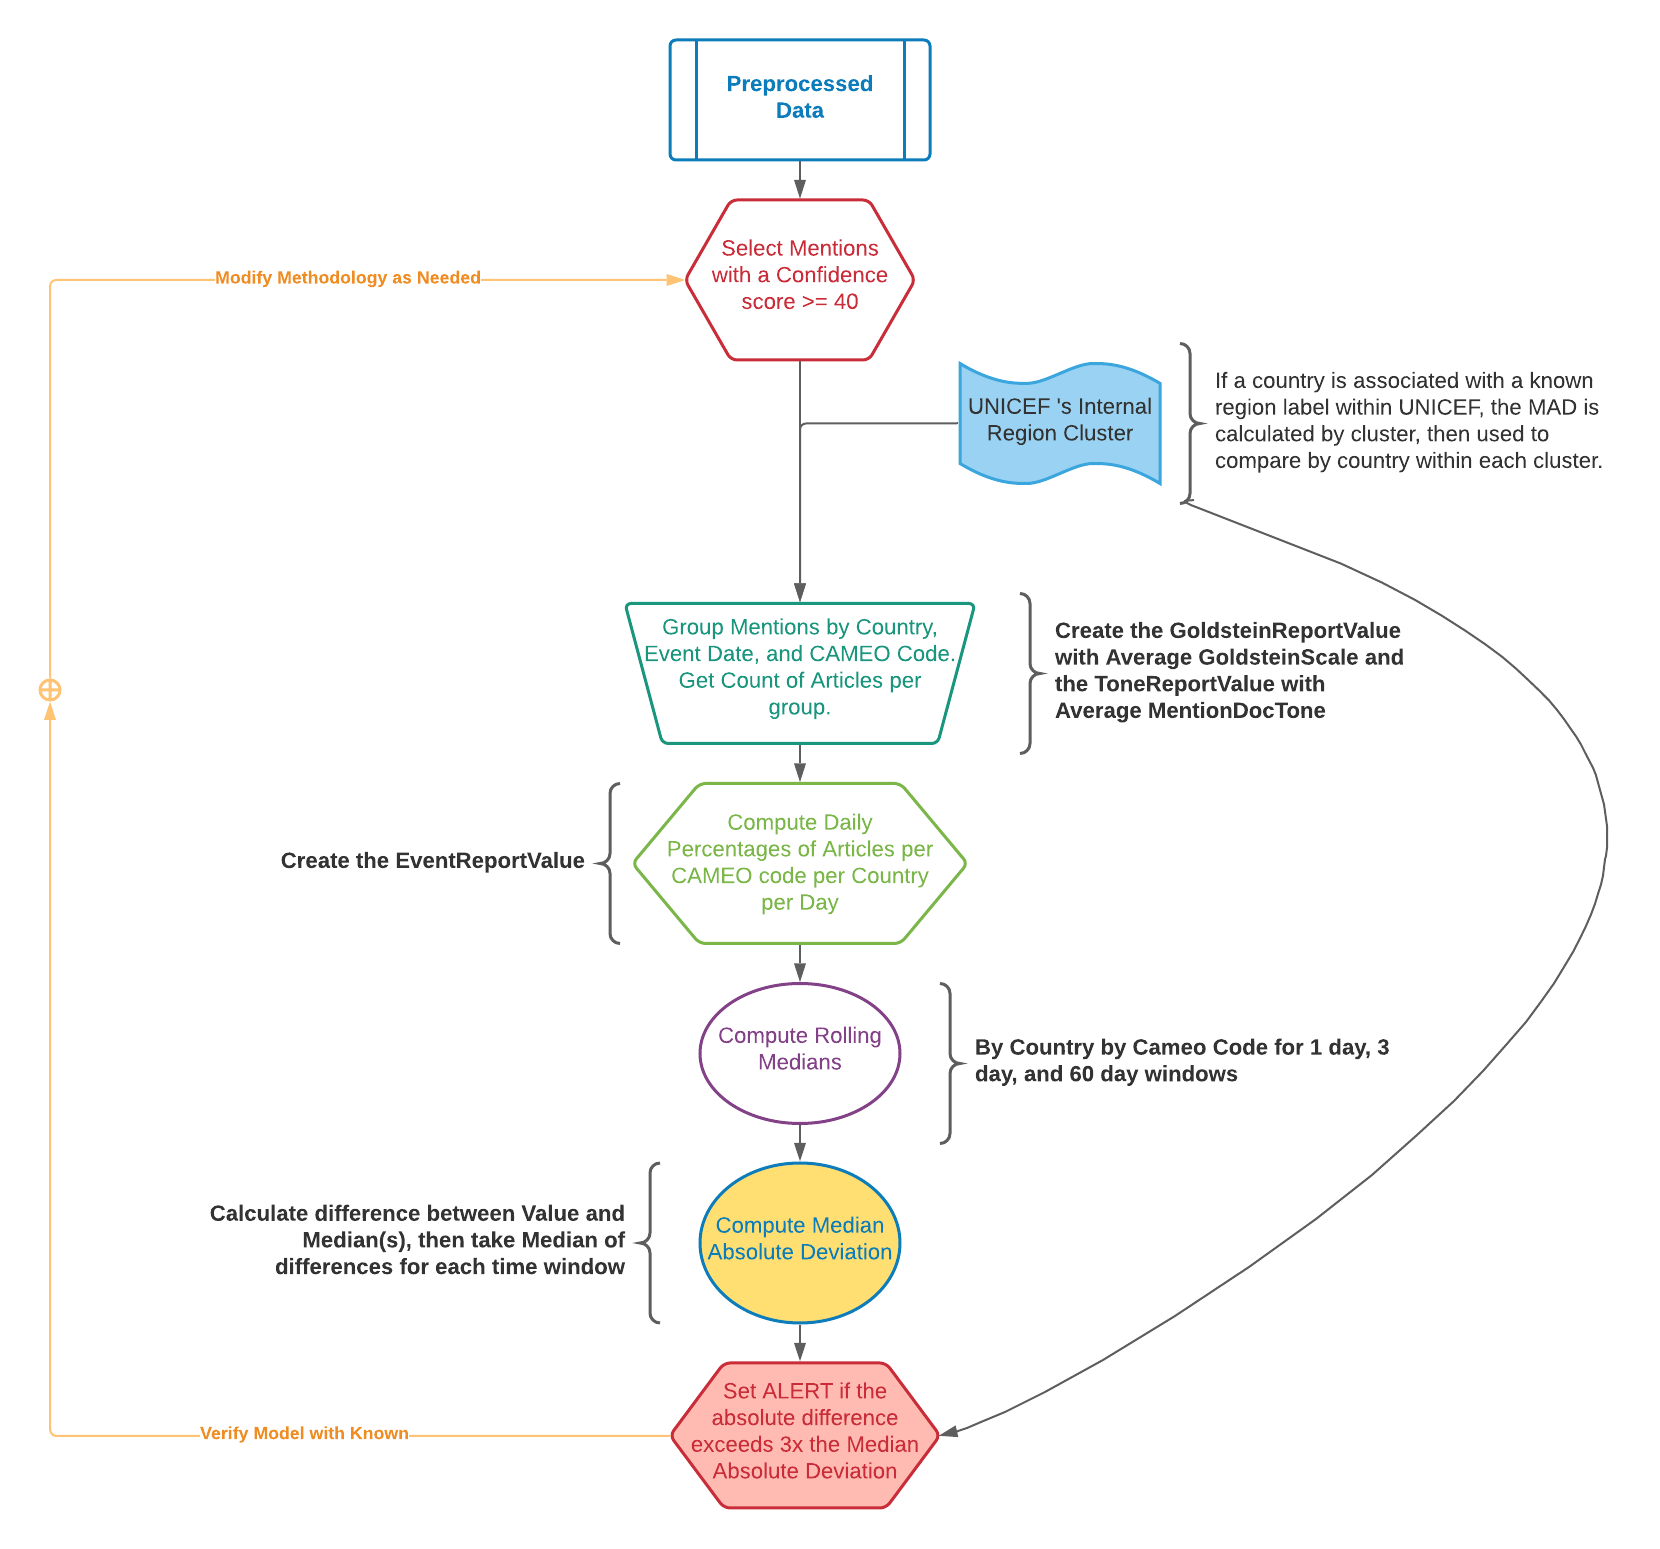
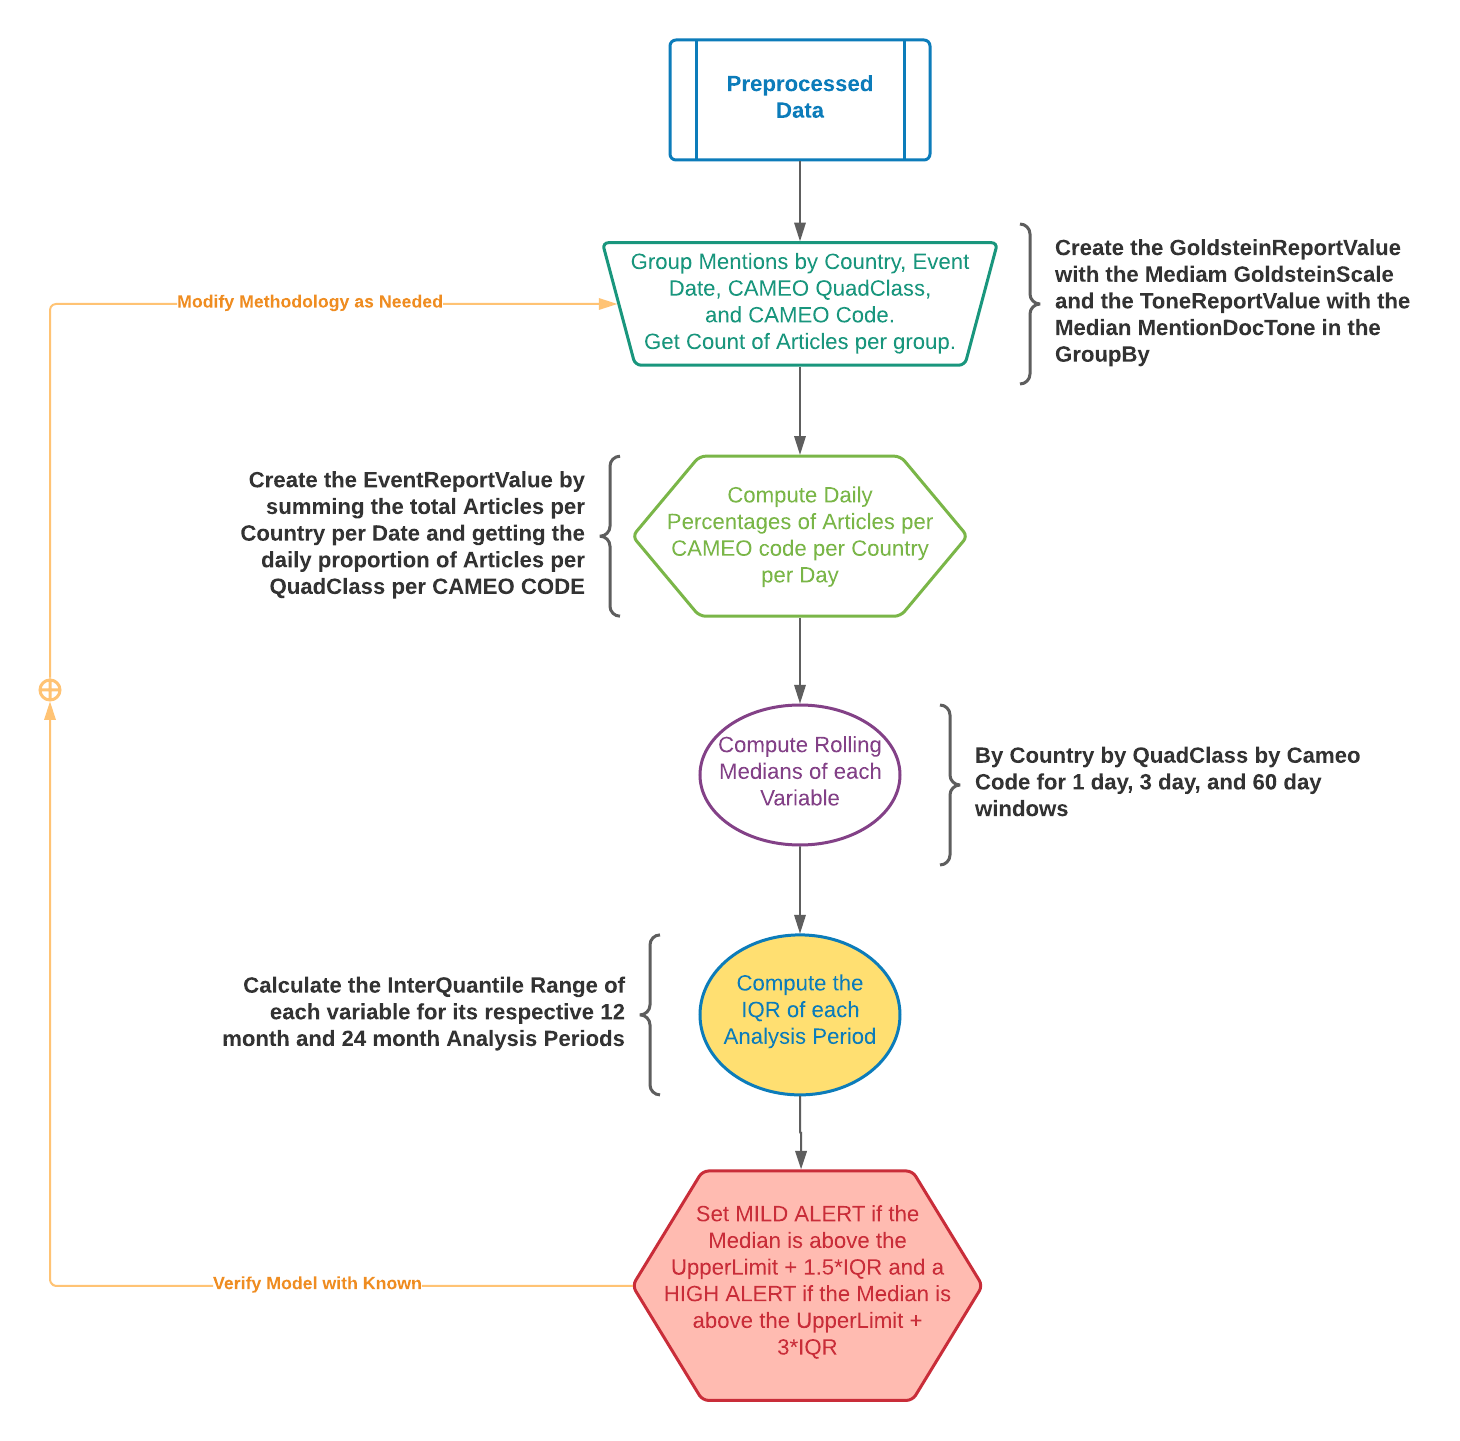
add modified project flowcharts

diff --git a/README.md b/README.md
@@ -6,11 +6,14 @@ Risk Analysis and Preparedness Section (RAPS), Office of Emergency Operations (E
 ### Premise of Task: 
 Contextual Alert and Trend System (CATS) is a proof of concept (POC) for an automated system for near real-time media monitoring via GDELT to identify trends and anomalies in the volume of online reports about pre-defined indicator events, at country level. This repository reflects the methodologies used to complete this task.
 
-### Technical Workflow
+### Technical Development Workflow
 ![CATS LUCID CHART](images/CATS_technical_plan_flowchart.png)
 
 ### Data Selection and Preprocessing Workflow
 ![CATS PREPROCESSING LUCID CHART](images/CATS_data_preprocessing_flowchart.png)
 
 ### Alert System Workflow
-![CATS ALERT MODEL LUCID CHART](images/v3_CATS_alert_model.png)
+![CATS ALERT MODEL LUCID CHART](images/CATS_alert_model.png)
+
+### Final Automatic Data Pipeline
+![CATS AUTOMATIC PIPELINE](images/CATS_final_data_pipeline.png)
